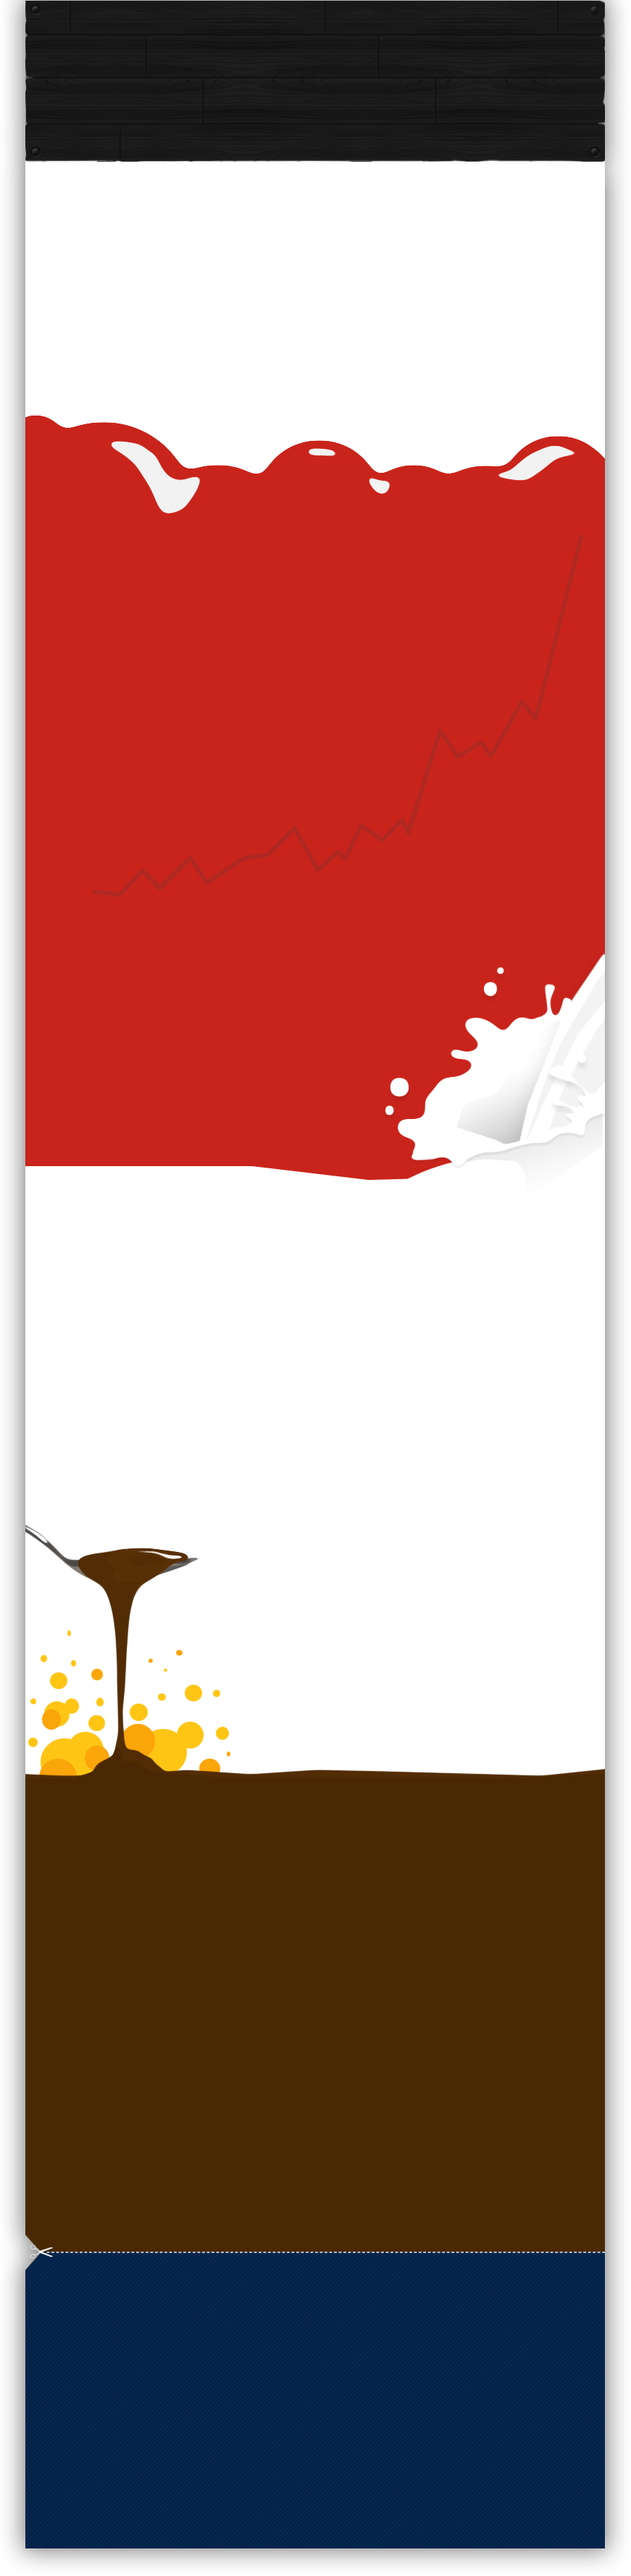
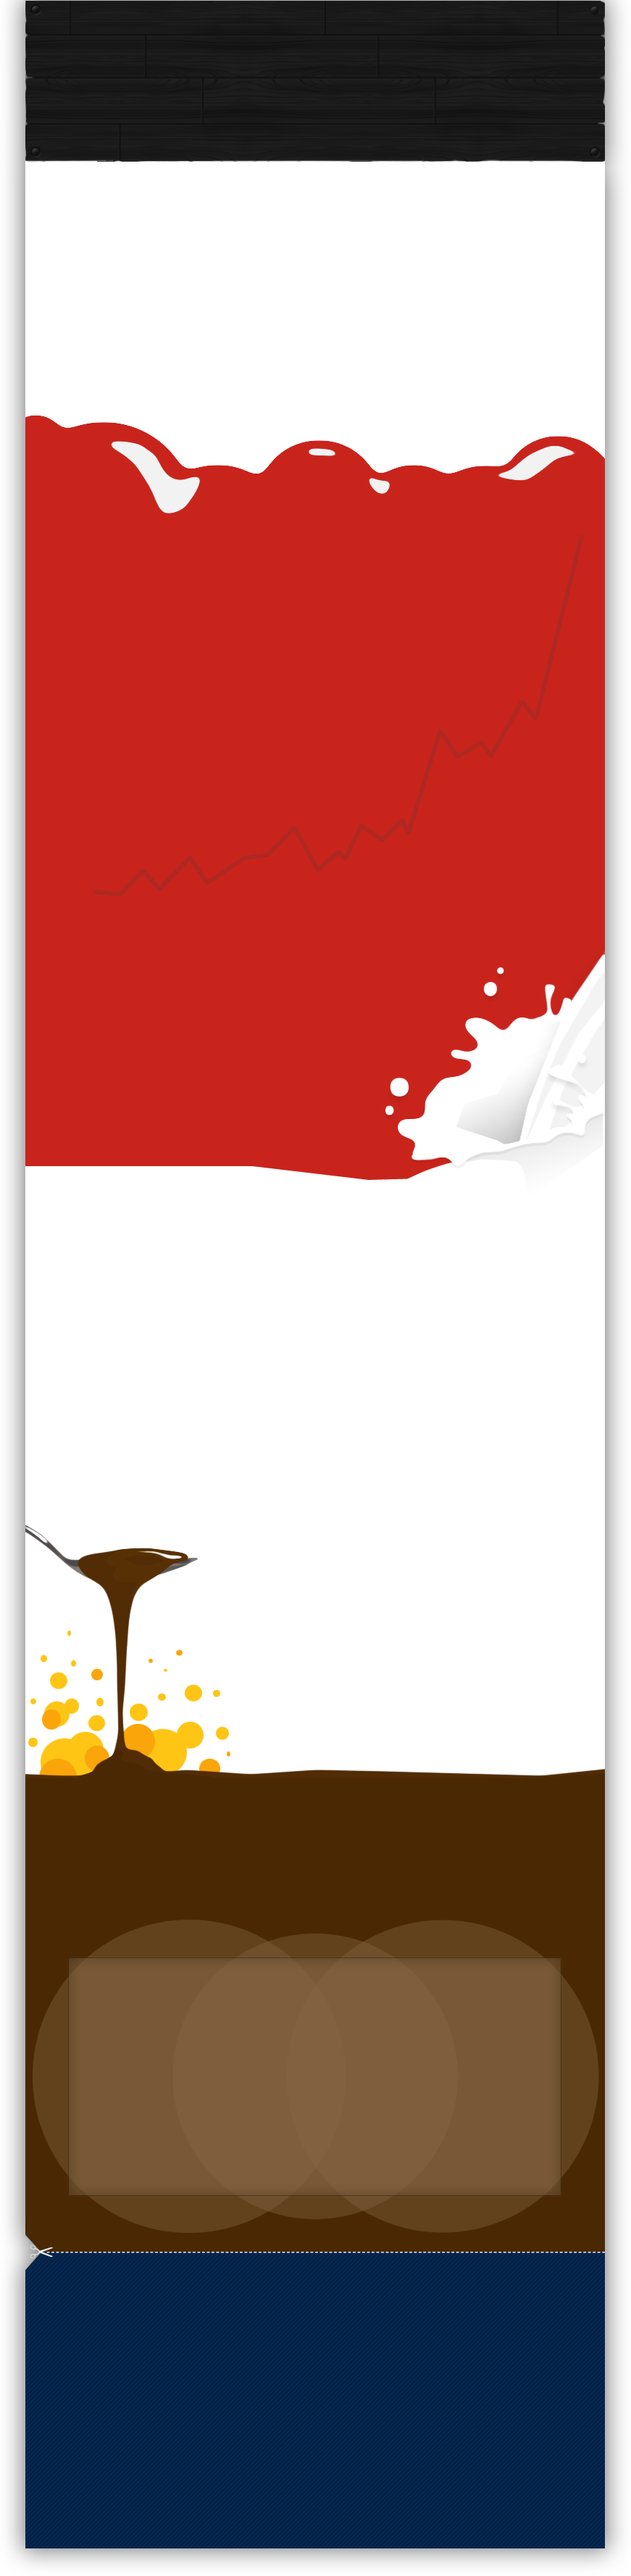
working on project list section
git-svn-id: svn+ssh://wafflestudio.net/home/thefron/svn/waffle@63 58158ecd-1a78-46b5-9736-0f4b7c5de568

Changed region(s): [[0.031, 0.7188, 0.961, 0.875]]

diff --git a/public/javascripts/jquery.easing.js b/public/javascripts/jquery.easing.js
@@ -1,0 +1,205 @@
+/*
+ * jQuery Easing v1.3 - http://gsgd.co.uk/sandbox/jquery/easing/
+ *
+ * Uses the built in easing capabilities added In jQuery 1.1
+ * to offer multiple easing options
+ *
+ * TERMS OF USE - jQuery Easing
+ * 
+ * Open source under the BSD License. 
+ * 
+ * Copyright © 2008 George McGinley Smith
+ * All rights reserved.
+ * 
+ * Redistribution and use in source and binary forms, with or without modification, 
+ * are permitted provided that the following conditions are met:
+ * 
+ * Redistributions of source code must retain the above copyright notice, this list of 
+ * conditions and the following disclaimer.
+ * Redistributions in binary form must reproduce the above copyright notice, this list 
+ * of conditions and the following disclaimer in the documentation and/or other materials 
+ * provided with the distribution.
+ * 
+ * Neither the name of the author nor the names of contributors may be used to endorse 
+ * or promote products derived from this software without specific prior written permission.
+ * 
+ * THIS SOFTWARE IS PROVIDED BY THE COPYRIGHT HOLDERS AND CONTRIBUTORS "AS IS" AND ANY 
+ * EXPRESS OR IMPLIED WARRANTIES, INCLUDING, BUT NOT LIMITED TO, THE IMPLIED WARRANTIES OF
+ * MERCHANTABILITY AND FITNESS FOR A PARTICULAR PURPOSE ARE DISCLAIMED. IN NO EVENT SHALL THE
+ *  COPYRIGHT OWNER OR CONTRIBUTORS BE LIABLE FOR ANY DIRECT, INDIRECT, INCIDENTAL, SPECIAL,
+ *  EXEMPLARY, OR CONSEQUENTIAL DAMAGES (INCLUDING, BUT NOT LIMITED TO, PROCUREMENT OF SUBSTITUTE
+ *  GOODS OR SERVICES; LOSS OF USE, DATA, OR PROFITS; OR BUSINESS INTERRUPTION) HOWEVER CAUSED 
+ * AND ON ANY THEORY OF LIABILITY, WHETHER IN CONTRACT, STRICT LIABILITY, OR TORT (INCLUDING
+ *  NEGLIGENCE OR OTHERWISE) ARISING IN ANY WAY OUT OF THE USE OF THIS SOFTWARE, EVEN IF ADVISED 
+ * OF THE POSSIBILITY OF SUCH DAMAGE. 
+ *
+*/
+
+// t: current time, b: begInnIng value, c: change In value, d: duration
+jQuery.easing['jswing'] = jQuery.easing['swing'];
+
+jQuery.extend( jQuery.easing,
+{
+	def: 'easeOutQuad',
+	swing: function (x, t, b, c, d) {
+		//alert(jQuery.easing.default);
+		return jQuery.easing[jQuery.easing.def](x, t, b, c, d);
+	},
+	easeInQuad: function (x, t, b, c, d) {
+		return c*(t/=d)*t + b;
+	},
+	easeOutQuad: function (x, t, b, c, d) {
+		return -c *(t/=d)*(t-2) + b;
+	},
+	easeInOutQuad: function (x, t, b, c, d) {
+		if ((t/=d/2) < 1) return c/2*t*t + b;
+		return -c/2 * ((--t)*(t-2) - 1) + b;
+	},
+	easeInCubic: function (x, t, b, c, d) {
+		return c*(t/=d)*t*t + b;
+	},
+	easeOutCubic: function (x, t, b, c, d) {
+		return c*((t=t/d-1)*t*t + 1) + b;
+	},
+	easeInOutCubic: function (x, t, b, c, d) {
+		if ((t/=d/2) < 1) return c/2*t*t*t + b;
+		return c/2*((t-=2)*t*t + 2) + b;
+	},
+	easeInQuart: function (x, t, b, c, d) {
+		return c*(t/=d)*t*t*t + b;
+	},
+	easeOutQuart: function (x, t, b, c, d) {
+		return -c * ((t=t/d-1)*t*t*t - 1) + b;
+	},
+	easeInOutQuart: function (x, t, b, c, d) {
+		if ((t/=d/2) < 1) return c/2*t*t*t*t + b;
+		return -c/2 * ((t-=2)*t*t*t - 2) + b;
+	},
+	easeInQuint: function (x, t, b, c, d) {
+		return c*(t/=d)*t*t*t*t + b;
+	},
+	easeOutQuint: function (x, t, b, c, d) {
+		return c*((t=t/d-1)*t*t*t*t + 1) + b;
+	},
+	easeInOutQuint: function (x, t, b, c, d) {
+		if ((t/=d/2) < 1) return c/2*t*t*t*t*t + b;
+		return c/2*((t-=2)*t*t*t*t + 2) + b;
+	},
+	easeInSine: function (x, t, b, c, d) {
+		return -c * Math.cos(t/d * (Math.PI/2)) + c + b;
+	},
+	easeOutSine: function (x, t, b, c, d) {
+		return c * Math.sin(t/d * (Math.PI/2)) + b;
+	},
+	easeInOutSine: function (x, t, b, c, d) {
+		return -c/2 * (Math.cos(Math.PI*t/d) - 1) + b;
+	},
+	easeInExpo: function (x, t, b, c, d) {
+		return (t==0) ? b : c * Math.pow(2, 10 * (t/d - 1)) + b;
+	},
+	easeOutExpo: function (x, t, b, c, d) {
+		return (t==d) ? b+c : c * (-Math.pow(2, -10 * t/d) + 1) + b;
+	},
+	easeInOutExpo: function (x, t, b, c, d) {
+		if (t==0) return b;
+		if (t==d) return b+c;
+		if ((t/=d/2) < 1) return c/2 * Math.pow(2, 10 * (t - 1)) + b;
+		return c/2 * (-Math.pow(2, -10 * --t) + 2) + b;
+	},
+	easeInCirc: function (x, t, b, c, d) {
+		return -c * (Math.sqrt(1 - (t/=d)*t) - 1) + b;
+	},
+	easeOutCirc: function (x, t, b, c, d) {
+		return c * Math.sqrt(1 - (t=t/d-1)*t) + b;
+	},
+	easeInOutCirc: function (x, t, b, c, d) {
+		if ((t/=d/2) < 1) return -c/2 * (Math.sqrt(1 - t*t) - 1) + b;
+		return c/2 * (Math.sqrt(1 - (t-=2)*t) + 1) + b;
+	},
+	easeInElastic: function (x, t, b, c, d) {
+		var s=1.70158;var p=0;var a=c;
+		if (t==0) return b;  if ((t/=d)==1) return b+c;  if (!p) p=d*.3;
+		if (a < Math.abs(c)) { a=c; var s=p/4; }
+		else var s = p/(2*Math.PI) * Math.asin (c/a);
+		return -(a*Math.pow(2,10*(t-=1)) * Math.sin( (t*d-s)*(2*Math.PI)/p )) + b;
+	},
+	easeOutElastic: function (x, t, b, c, d) {
+		var s=1.70158;var p=0;var a=c;
+		if (t==0) return b;  if ((t/=d)==1) return b+c;  if (!p) p=d*.3;
+		if (a < Math.abs(c)) { a=c; var s=p/4; }
+		else var s = p/(2*Math.PI) * Math.asin (c/a);
+		return a*Math.pow(2,-10*t) * Math.sin( (t*d-s)*(2*Math.PI)/p ) + c + b;
+	},
+	easeInOutElastic: function (x, t, b, c, d) {
+		var s=1.70158;var p=0;var a=c;
+		if (t==0) return b;  if ((t/=d/2)==2) return b+c;  if (!p) p=d*(.3*1.5);
+		if (a < Math.abs(c)) { a=c; var s=p/4; }
+		else var s = p/(2*Math.PI) * Math.asin (c/a);
+		if (t < 1) return -.5*(a*Math.pow(2,10*(t-=1)) * Math.sin( (t*d-s)*(2*Math.PI)/p )) + b;
+		return a*Math.pow(2,-10*(t-=1)) * Math.sin( (t*d-s)*(2*Math.PI)/p )*.5 + c + b;
+	},
+	easeInBack: function (x, t, b, c, d, s) {
+		if (s == undefined) s = 1.70158;
+		return c*(t/=d)*t*((s+1)*t - s) + b;
+	},
+	easeOutBack: function (x, t, b, c, d, s) {
+		if (s == undefined) s = 1.70158;
+		return c*((t=t/d-1)*t*((s+1)*t + s) + 1) + b;
+	},
+	easeInOutBack: function (x, t, b, c, d, s) {
+		if (s == undefined) s = 1.70158; 
+		if ((t/=d/2) < 1) return c/2*(t*t*(((s*=(1.525))+1)*t - s)) + b;
+		return c/2*((t-=2)*t*(((s*=(1.525))+1)*t + s) + 2) + b;
+	},
+	easeInBounce: function (x, t, b, c, d) {
+		return c - jQuery.easing.easeOutBounce (x, d-t, 0, c, d) + b;
+	},
+	easeOutBounce: function (x, t, b, c, d) {
+		if ((t/=d) < (1/2.75)) {
+			return c*(7.5625*t*t) + b;
+		} else if (t < (2/2.75)) {
+			return c*(7.5625*(t-=(1.5/2.75))*t + .75) + b;
+		} else if (t < (2.5/2.75)) {
+			return c*(7.5625*(t-=(2.25/2.75))*t + .9375) + b;
+		} else {
+			return c*(7.5625*(t-=(2.625/2.75))*t + .984375) + b;
+		}
+	},
+	easeInOutBounce: function (x, t, b, c, d) {
+		if (t < d/2) return jQuery.easing.easeInBounce (x, t*2, 0, c, d) * .5 + b;
+		return jQuery.easing.easeOutBounce (x, t*2-d, 0, c, d) * .5 + c*.5 + b;
+	}
+});
+
+/*
+ *
+ * TERMS OF USE - EASING EQUATIONS
+ * 
+ * Open source under the BSD License. 
+ * 
+ * Copyright © 2001 Robert Penner
+ * All rights reserved.
+ * 
+ * Redistribution and use in source and binary forms, with or without modification, 
+ * are permitted provided that the following conditions are met:
+ * 
+ * Redistributions of source code must retain the above copyright notice, this list of 
+ * conditions and the following disclaimer.
+ * Redistributions in binary form must reproduce the above copyright notice, this list 
+ * of conditions and the following disclaimer in the documentation and/or other materials 
+ * provided with the distribution.
+ * 
+ * Neither the name of the author nor the names of contributors may be used to endorse 
+ * or promote products derived from this software without specific prior written permission.
+ * 
+ * THIS SOFTWARE IS PROVIDED BY THE COPYRIGHT HOLDERS AND CONTRIBUTORS "AS IS" AND ANY 
+ * EXPRESS OR IMPLIED WARRANTIES, INCLUDING, BUT NOT LIMITED TO, THE IMPLIED WARRANTIES OF
+ * MERCHANTABILITY AND FITNESS FOR A PARTICULAR PURPOSE ARE DISCLAIMED. IN NO EVENT SHALL THE
+ *  COPYRIGHT OWNER OR CONTRIBUTORS BE LIABLE FOR ANY DIRECT, INDIRECT, INCIDENTAL, SPECIAL,
+ *  EXEMPLARY, OR CONSEQUENTIAL DAMAGES (INCLUDING, BUT NOT LIMITED TO, PROCUREMENT OF SUBSTITUTE
+ *  GOODS OR SERVICES; LOSS OF USE, DATA, OR PROFITS; OR BUSINESS INTERRUPTION) HOWEVER CAUSED 
+ * AND ON ANY THEORY OF LIABILITY, WHETHER IN CONTRACT, STRICT LIABILITY, OR TORT (INCLUDING
+ *  NEGLIGENCE OR OTHERWISE) ARISING IN ANY WAY OUT OF THE USE OF THIS SOFTWARE, EVEN IF ADVISED 
+ * OF THE POSSIBILITY OF SUCH DAMAGE. 
+ *
+ */

diff --git a/public/stylesheets/style.css b/public/stylesheets/style.css
@@ -547,6 +547,15 @@ a.nivo-prevNav {
 	top: 18px;
 	right: 28px;
 }
+#projects h2 {
+	width: 240px;
+	height: 21px;
+	text-indent: -9999px;
+	background: url(/images/sub_projects.png) no-repeat;
+	position: absolute;
+	top: 110px;
+	right: 28px;
+}
 #projects nav.navigation {
 	top: 20px;
 	border: 1px solid #4e361a;
@@ -566,18 +575,45 @@ a.nivo-prevNav {
 }
 #project_list {
 	position: absolute;
-	top: 240px;
+	top: 242px;
 	left: 50%;
-	margin-left: -325px;
+	margin-left: -327px;
 	width: 650px;
 	height: 300px;
+	border: 1px solid #492803;
 }
 #project_list li {
 	width: 600px;
 	height: 300px;
+	cursor: pointer;
 	-moz-box-shadow:0 0 10px #000;
 	-webkit-box-shadow:0 0 10px #000;
 	box-shadow:0 0 10px #000;
+}
+#projects .project_overlay {
+  position: absolute;
+  bottom: 20px;
+  left: 20px;
+  opacity: 0.8;
+  filter: alpha(opacity=80); /* IE lt 8 */
+  -ms-filter: "alpha(opacity=80)"; /* IE 8 */
+  -khtml-opacity: .80; /* Safari 1.x */
+  -moz-opacity: .80; /* FF lt 1.5, Netscape */
+}
+#projects .project_name {
+  background: url(/images/backgrounds/black_bg.png);
+  color: white;
+  padding: 10px 15px;
+  float: left;
+  margin-bottom: 3px;
+}
+#projects .project_subtitle {
+  font-size: 14px;
+  background: url(/images/backgrounds/black_bg.png);
+  color: white;
+  padding: 4px 7px;
+  float: left;
+  clear: left;
 }
 .project_popup {
   width: 850px;

diff --git a/public/javascripts/application.js b/public/javascripts/application.js
@@ -351,14 +351,13 @@ function init_projects(){
 	});
 */
 	$('#project_list').aga({
-		action: 'hover',
-		hoverTime: 200,
-		open: {
-			after: function(a, b){
-				console.log(a)
-			}
-		}
+	  easing: ['easeOutExpo'],
+    size: {
+      max: $('#project_list').width() - 20*($('#project_list li').length - 1)
+    },
+    animationTime: 800
 	});
+	//$('#project_list .project_overlay').css('right', 20 + (20*($('#project_list li').length - 1)));
 }
 function init_contact_form(){
 	//컨택 폼 ajax로 동작하게

diff --git a/app/models/project.rb b/app/models/project.rb
@@ -1,9 +1,10 @@
 class Project < ActiveRecord::Base
   has_and_belongs_to_many :members
 	has_one :featured, :class_name => "Screenshot", :foreign_key => "featuring_id"
+	has_one :logo, :class_name => "Screenshot", :foreign_key => "logo_of_id"
   has_many :screenshots
 
-  attr_accessor :screenshot_files, :member_ids, :from_form, :featured_img
+  attr_accessor :screenshot_files, :member_ids, :from_form, :featured_img, :logo_img
   after_save :add_screenshots, :set_members
 
   def self.available_statuses
@@ -13,6 +14,7 @@ class Project < ActiveRecord::Base
   def add_screenshots
     unless from_form.nil?  
 			self.featured = Screenshot.create(:image => featured_img) if featured_img
+			self.logo = Screenshot.create(:image => logo_img) if logo_img
       (screenshot_files||[]).each{|image| self.screenshots << Screenshot.new(:image => image)}
     end
   end

diff --git a/new_admin.rb b/new_admin.rb
@@ -1,5 +1,5 @@
 require 'yaml'
-require 'sha1'
+require 'digest/sha1'
 
 #system "touch #{RAILS_ROOT}/config/admin.yml"
 #admin_credentials = YAML::load_file("#{RAILS_ROOT}/config/admin.yml")||[]
@@ -22,7 +22,7 @@ begin
     puts ' '
     system "stty echo"
     if confirm_password == new_password
-      admin_credentials.push({:id => new_id.strip, :password => SHA1::hexdigest(new_password.strip)})
+      admin_credentials.push({:id => new_id.strip, :password => Digest::SHA1.hexdigest(new_password.strip)})
 #    yaml = File.open("#{RAILS_ROOT}/config/admin.yml", "w")
       yaml = File.open("config/admin.yml", "w")
       yaml.write(YAML::dump(admin_credentials))

diff --git a/app/models/screenshot.rb b/app/models/screenshot.rb
@@ -1,4 +1,4 @@
 class Screenshot < ActiveRecord::Base
   belongs_to :project
-  has_attached_file :image, :styles => { :big => "600x300#", :thumb => "120x90#", :middle => "310x215#", :small => "85x65#"}
+  has_attached_file :image, :styles => { :featured => "600x300#", :thumb => "120x90#", :middle => "310x215#", :small => "85x65#", :logo => "200x35>"}
 end

diff --git a/app/controllers/home_controller.rb b/app/controllers/home_controller.rb
@@ -1,6 +1,6 @@
 class HomeController < ApplicationController
   def index
-    @carousels = Carousel.all
+    @carousels = Carousel.all.reverse
     @timelines = Timeline.all
     @members = Member.all
     @projects = Project.all

diff --git a/db/migrate/20110403094241_add_logo_of_id_to_screenshot.rb b/db/migrate/20110403094241_add_logo_of_id_to_screenshot.rb
@@ -1,0 +1,9 @@
+class AddLogoOfIdToScreenshot < ActiveRecord::Migration
+  def self.up
+    add_column :screenshots, :logo_of_id, :integer
+  end
+
+  def self.down
+    remove_column :screenshots, :logo_of_id
+  end
+end
